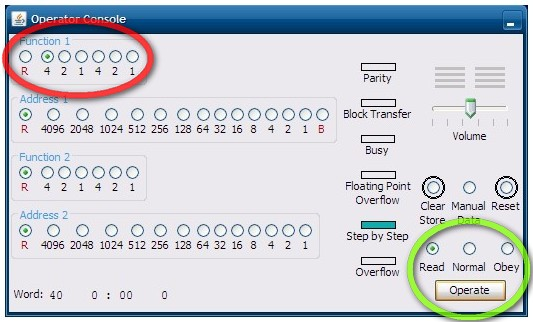
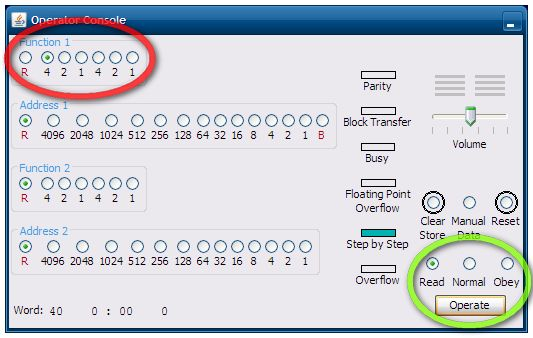
Add authentic sounds

diff --git a/docs/operation.html b/docs/operation.html
@@ -57,8 +57,13 @@ or <code>java <b>elliott803.Main</b> [options] [machine]</code>
 </dl></blockquote>
 <h4>Options</h4>
 <blockquote><dl>
-<dt><code>-look <i>lookandfeel</i></code></dt><dd>The name of the Java GUI 
-look-and-feel to use.
+<dt><code>-volume <i>volume</i></code></dt>
+<dd>The initial loudspeaker volume.
+This should be a number from 0 to 10, a value of 0 will switch the 
+sound emulation off (which can be useful on slower machines).
+If not specified the default value is 5.</dd>
+<dt><code>-look <i>lookandfeel</i></code></dt>
+<dd>The name of the Java GUI look-and-feel to use.
 By default the standard platform look-and-feel will be used.
 Other look-and-feels that may be available (depending on operating system
 and Java version) include: <code>metal</code>, <code>ocean</code>, <code>steel</code>,

diff --git a/src/elliott803/Main.java b/src/elliott803/Main.java
@@ -1,7 +1,7 @@
 /**
  * Elliott Model 803B Simulator
  *
- * (C) Copyright Tim Baldwin 2009,2010
+ * (C) Copyright Tim Baldwin 2009,2013
  */
 package elliott803;
 
@@ -35,6 +35,8 @@ import elliott803.view.MachineImage;
  *
  * options:
  *   -look lookAndFeel: the Java UI look-and-feel (defaults to system look and feel)
+ *   -volume volume: the initial volume (0 to 100, 0 means no sound)
+ *   -debug: print diagnostic information 
  *
  * @author Baldwin
  */
@@ -44,8 +46,13 @@ public class Main implements Runnable {
         // Handle parameters
         Args.Map options = Args.optionMap();
         options.put("look", "lookAndFeel");
+        options.put("volume", "volume");
+        options.put("debug", null);
         Args parms = new Args("elliott803.Main", "[machine]", args, options);
-
+        
+        // Global debug flag
+        Computer.debug = parms.getFlag("debug");
+        
         // Set the Swing look and feel
         setLookAndFeel(parms.getOption("look"));
 
@@ -54,9 +61,14 @@ public class Main implements Runnable {
         MachineImage image = null; 
         if (imageFile != null)
             image = MachineImage.readImage(imageFile);
+        
+        // Get initial volume
+        int volume = parms.getInteger("volume");
+        volume = Math.max(-1, Math.min(10, volume));
+        volume = (volume < 0) ? 50 : volume*10;
 
         // Create a new 803 simulation and view and start the simulator thread
-        Computer computer = new Computer();
+        Computer computer = new Computer(volume);
         ComputerView view = new ComputerView(computer);
         computer.start();
         
@@ -68,17 +80,18 @@ public class Main implements Runnable {
     // Try to set the Swing look and feel
     private static void setLookAndFeel(String look) throws Exception {
         String lafClass = null, lafTheme = null;
+        
+        if (Computer.debug) {
+            System.out.println("Look:");
+            for (LookAndFeelInfo info : UIManager.getInstalledLookAndFeels()) {
+                String name = info.getName();
+                if (name.equals("Metal"))
+                    name += "/Steel/Ocean";
+                System.out.println("  " + name);
+            }    
+        }
 
         if (look != null) {
-            if (look.equals("LIST")) {
-                for (LookAndFeelInfo info : UIManager.getInstalledLookAndFeels()) {
-                    String name = info.getName();
-                    if (name.equals("Metal"))
-                        name += "/Steel/Ocean";
-                    System.out.println("  " + name);
-                }    
-            }
-            
             // "Steel" and "Ocean" are themes for "Metal"
             if (look.equalsIgnoreCase("Steel") || look.equalsIgnoreCase("Ocean")) {
                 lafTheme = look;

diff --git a/src/elliott803/view/component/ConsoleVolume.java b/src/elliott803/view/component/ConsoleVolume.java
@@ -26,17 +26,18 @@ public class ConsoleVolume extends JPanel implements ChangeListener {
     private static final long serialVersionUID = 1L;
     
     Console console;
-        
+    JSlider slider;
+            
     public ConsoleVolume(Console console) {
         this.console = console;        
         setLayout(new BoxLayout(this, BoxLayout.Y_AXIS));
         setAlignmentX(CENTER_ALIGNMENT);
-        
+                
         DisplaySpeaker grill = new DisplaySpeaker();
         add(grill);
         add(Box.createVerticalStrut(5));
         
-        JSlider slider = new JSlider(0, 100, console.getVolume());
+        slider = new JSlider(0, 100, console.getVolume());
         slider.addChangeListener(this);
         slider.setAlignmentX(CENTER_ALIGNMENT);
         slider.setMajorTickSpacing(20);
@@ -49,6 +50,10 @@ public class ConsoleVolume extends JPanel implements ChangeListener {
         JLabel t = new JLabel("Volume");
         t.setAlignmentX(CENTER_ALIGNMENT);
         add(t);
+    }
+    
+    public void setEnabled(boolean enabled) {
+        slider.setEnabled(enabled);
     }
     
     /*

diff --git a/src/elliott803/view/ConsoleView.java b/src/elliott803/view/ConsoleView.java
@@ -62,16 +62,16 @@ public class ConsoleView extends JInternalFrame implements ActionListener, Focus
         speaker = new Loudspeaker();
         speaker.setVolume(console.getVolume());
         volume = new ConsoleVolume(console);
-    
+
         // Word generator 
         JPanel wg = new JPanel();
         wg.setLayout(new BoxLayout(wg, BoxLayout.Y_AXIS));
         wg.add(new ConsoleButtons("Function 1", FN_NAMES, 6, 39, console));
-        wg.add(Box.createVerticalStrut(5));
+        wg.add(Box.createVerticalStrut(10));
         wg.add(new ConsoleButtons("Address 1", ADDR_NAMES, 14, 33, console));
-        wg.add(Box.createVerticalStrut(5));
+        wg.add(Box.createVerticalStrut(10));
         wg.add(new ConsoleButtons("Function 2", FN_NAMES, 6, 19, console));
-        wg.add(Box.createVerticalStrut(5));
+        wg.add(Box.createVerticalStrut(10));
         wg.add(new ConsoleButtons("Address 2", ADDR_NAMES, 13, 13, console));
         wg.add(Box.createVerticalStrut(20));
         wordgen = new DisplayWord("Word", Type.INSTRUCTION);

diff --git a/src/elliott803/machine/Computer.java b/src/elliott803/machine/Computer.java
@@ -21,6 +21,9 @@ import elliott803.machine.extension.SimulatorControlDevice;
  * @author Baldwin
  */
 public class Computer extends Thread {
+    
+    // Global debug option
+    public static boolean debug = false;
 
     public static final int ACT_WAIT = 0;
     public static final int ACT_CLEAR = 1;
@@ -50,6 +53,10 @@ public class Computer extends Thread {
      * Construct a computer
      */
     public Computer() {
+        this(0);
+    }
+    
+    public Computer(int volume) {
         // Get name and version information from manifest, or set default
         name = getClass().getPackage().getImplementationTitle();
         version = getClass().getPackage().getImplementationVersion();
@@ -86,8 +93,8 @@ public class Computer extends Thread {
 
         // And the control console - start in step-by-step mode
         console = new Console(this);
+        console.setVolume(volume);
         console.setStep(true);
-        console.setVolume(50);
         
         // Default to real time mode
         setRealTime(true);

diff --git a/src/elliott803/hardware/CPU.java b/src/elliott803/hardware/CPU.java
@@ -52,6 +52,13 @@ public class CPU {
     public CPU(Computer computer) {
         this.computer = computer;
         calibrate();
+        
+        if (Computer.debug) {
+            System.out.println("CPU:");
+            System.out.println("  sleep time:   " + sleepPause);
+            System.out.println("  spin time:    " + spinPause);
+            System.out.println("  pause method: " + (useSpin ? "spin" : "sleep"));
+        }
     }
     
     // Set the next instruction to be executed
